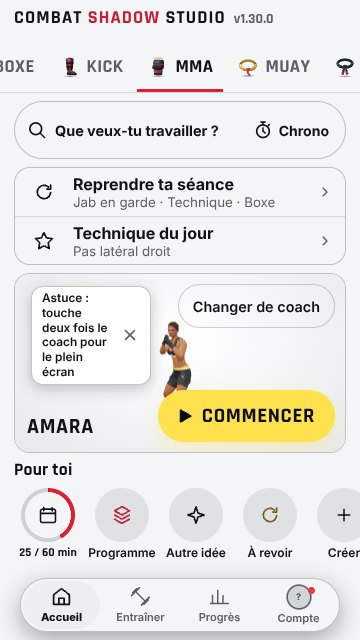
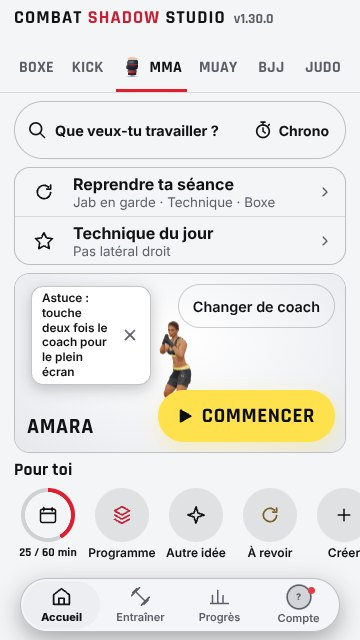
1.30.0 : les six onglets de disciplines tiennent dans la largeur, aide de test de la recherche, journal
Claude-Session: https://claude.ai/code/session_01LGzE8HcaWZT9Wh3cM63Dxe

Changed region(s): [[0.1833, 0.0625, 0.9778, 0.1562], [0.0, 0.0938, 0.1528, 0.125], [0.4583, 0.5, 0.4889, 0.5625]]

diff --git a/src/ui/screens/Home.tsx b/src/ui/screens/Home.tsx
@@ -1,4 +1,4 @@
-import { lazy, useCallback, useEffect, useMemo, useRef } from 'react';
+import { lazy, useCallback, useMemo } from 'react';
 import { Link, useNavigate } from 'react-router-dom';
 import { useProfile } from '../../store/profile';
 import { useSettings } from '../../store/settings';
@@ -79,13 +79,6 @@ export function Home() {
   const daily = useMemo(() => techniqueOfTheDay(filterTechniques(techniquesFor(main), main, kbStyle)), [main, kbStyle]);
   const mastery = useGoals((s) => s.mastery);
   const toReview = useMemo(() => techniquesFor(main).filter((t) => mastery[t.id] === 'a-revoir').length, [main, mastery]);
-  const tabs = useRef<HTMLDivElement>(null);
-  useEffect(() => {
-    // the tab of the discipline is brought into view without moving the page
-    const row = tabs.current;
-    const on = row?.querySelector<HTMLElement>('[aria-pressed="true"]');
-    if (row && on) row.scrollLeft = Math.max(0, on.offsetLeft - (row.clientWidth - on.offsetWidth) / 2);
-  }, [main]);
   const goalMin = weeklyGoal;
   const goalSessions = useGoals((s) => s.goals.weeklySessions);
   const weekMin = Math.round(weekSec / 60);
@@ -108,10 +101,11 @@ export function Home() {
       </header>
 
       {/* the six disciplines: one touch changes the discipline of the page (and of the coach) */}
-      <div className="home-dtabs" ref={tabs} role="group" aria-label="Ta discipline" data-testid="disc-tabs">
+      <div className="home-dtabs" role="group" aria-label="Ta discipline" data-testid="disc-tabs">
         {DISCIPLINES.map((d) => (
           <button key={d.id} type="button" className={`home-dtab ${d.id === main ? 'on' : ''}`} aria-pressed={d.id === main} data-testid={`pick-${d.id}`} onClick={() => d.id !== main && update({ mainDiscipline: d.id })}>
-            <DisciplineIcon id={d.id} size={22} />
+            {/* the six names fit the width of a small phone: only the discipline of the page shows its icon */}
+            {d.id === main && <DisciplineIcon id={d.id} size={22} />}
             {d.short}
           </button>
         ))}

diff --git a/tests/e2e/accueil-recherche.spec.ts b/tests/e2e/accueil-recherche.spec.ts
@@ -185,6 +185,13 @@ for (const theme of ['clair', 'sombre'] as const) {
     await seedProfile(page);
     await page.goto('/#/');
     await expect(page.locator('.home-row')).toHaveCount(2);
+    // the six discipline tabs are all inside the small screen, none cut at the edge
+    const tabs = await page.locator('.home-dtab').evaluateAll((bs) => bs.map((b) => [b.getBoundingClientRect().left, b.getBoundingClientRect().right]));
+    expect(tabs).toHaveLength(6);
+    for (const [l, r] of tabs) {
+      expect(l).toBeGreaterThanOrEqual(0);
+      expect(r).toBeLessThanOrEqual(360);
+    }
     const g = await page.evaluate(() => ({ overflow: document.documentElement.scrollWidth - innerWidth, theme: document.documentElement.dataset.theme }));
     expect(g.overflow).toBeLessThanOrEqual(0);
     expect(g.theme).toBe(theme === 'clair' ? 'light' : 'dark');

diff --git a/tests/e2e/nav-helpers.ts b/tests/e2e/nav-helpers.ts
@@ -62,7 +62,9 @@ export async function openCoachIA(page: Page) {
   // 1.1.0 (loupe A): « Rechercher » is a place of the bar; in the session and the chronometer it is in « Plus »
   await expect(bar(page)).toBeVisible();
   if ((await page.getByTestId('app-search').count()) === 0) await menuCommand(page, 'cmd-search');
-  else await page.getByTestId('app-search').click();
+  // 1.30.0: on the home the search is the big bar of the page; while a lazy screen loads after leaving the home, that
+  // bar and the magnifier of the next screen exist together for an instant: either opens the same search
+  else await page.getByTestId('app-search').first().click();
   // 1.7.0: the ✦ of the bar, with the field empty, opens the panel
   await page.getByTestId('search-ai').click();
   await expect(page.getByTestId('coach-bubble-panel')).toBeVisible();

diff --git a/src/ui/styles.css b/src/ui/styles.css
@@ -4205,7 +4205,8 @@ html.stage-fs-open body {
 }
 .home-dtabs {
   display: flex;
-  gap: 4px;
+  justify-content: space-between;
+  gap: 0;
   overflow-x: auto;
   scrollbar-width: none;
   margin: 0 calc(-1 * var(--gutter));
@@ -4223,7 +4224,9 @@ html.stage-fs-open body {
   align-items: center;
   gap: 6px;
   min-height: 48px;
-  padding: 0 10px;
+  min-width: 44px;
+  justify-content: center;
+  padding: 0 5px;
   border: 0;
   border-bottom: 3px solid transparent;
   background: none;
@@ -4231,7 +4234,7 @@ html.stage-fs-open body {
   font: inherit;
   font-family: var(--font-display);
   font-weight: 800;
-  font-size: 1.15rem;
+  font-size: clamp(0.95rem, 4.4vw, 1.15rem);
   text-transform: uppercase;
   letter-spacing: 0.02em;
   cursor: pointer;

diff --git a/docs/JOURNAL_CORRECTIONS.md b/docs/JOURNAL_CORRECTIONS.md
@@ -2992,7 +2992,8 @@ ci-dessus sont publiées ensemble en v0.28.0 (pas de publication séparée de la
     objectif), programme recommandé, autre idée de séance, « À revoir » (seulement s'il y a des techniques à revoir),
     Créer, Coach IA ;
   - réponses du Coach IA sur l'accueil et note des Nouveautés mises à jour.
-- **Écarts avec la maquette, signalés** : les six disciplines sont en onglets (la maquette en montrait trois) ;
+- **Écarts avec la maquette, signalés** : les six disciplines sont en onglets, toutes visibles (la maquette en
+  montrait trois) ;
   la pastille « Séance rapide » n'est pas répétée puisque « Commencer » fait la même chose ; « Changer de coach »
   est en haut à droite de la carte pour ne pas toucher « Commencer » sur les petits écrans.
 - **Fichiers** : `src/ui/screens/Home.tsx`, `src/ui/styles.css`, `src/ui/nav/{config.ts,BottomBar.tsx}`,
@@ -3003,9 +3004,15 @@ ci-dessus sont publiées ensemble en v0.28.0 (pas de publication séparée de la
     fermait) : `accueil-recherche` (onglets, raccourcis, pastilles, « Commencer », anneau de l'objectif, contraste et
     tenue en 360×640 nuit et jour), `navigation`, `aucune-perte-v100`, `consignes-v130`, `nav-helpers`, et côté
     Vitest `refonte.test`, `nav.test`, `icons.test`, `appGuide.test` ;
-  - suite Playwright complète : résultat reporté dans la demande de fusion ;
-  - `consignes-v130.spec.ts:27` : ÉCHOUÉ sur cette machine, sans lien avec ce lot (échoue de la même façon sur la
-    1.29.0 reconstruite à l'identique, vérifié le même jour) ;
+  - suite Playwright complète (296 tests) : 286 TEST RÉUSSI, 2 ignorés (Firebase), 8 ÉCHOUÉ au premier passage ;
+    - 4 liés à ce lot, corrigés puis rejoués sur la version finale, TEST RÉUSSI : contraste nuit et jour (un onglet
+      de discipline coupé au bord de l'écran : les six onglets tiennent maintenant dans la largeur, sans défilement,
+      seul celui de la discipline choisie montre son icône) ; `coach-bubble:127` et `coach-panel-size:55` (le test
+      touchait la recherche pendant le chargement de l'écran suivant, aide de test corrigée) ;
+    - `coach-suggest.spec.ts:245` : ÉCHOUÉ sous charge, TEST RÉUSSI rejoué seul ;
+    - 3 sans lien avec ce lot, ÉCHOUÉ : `consignes-v130.spec.ts:27` (échoue de la même façon sur la 1.29.0
+      reconstruite à l'identique, vérifié le même jour), `coaching-hud.spec.ts:60` (instable sous charge, déjà
+      connu), `training-layout.spec.ts:117` (dépasse le temps imparti sur cette machine, déjà connu) ;
   - appareil Android réel : NON EXÉCUTÉ.
 - **Captures** : `docs/v1300/captures/` (nuit et jour, 360×640 et 393×851, avant et après une première séance).
 - **Restauration** : `feature/combat-shadow-v030` avant fusion (1.29.0, commit c663c88).
